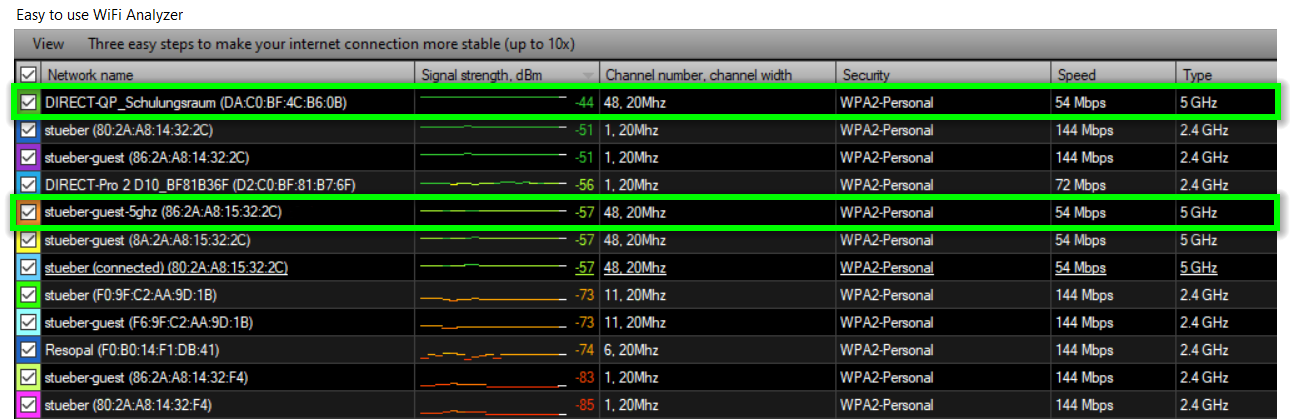
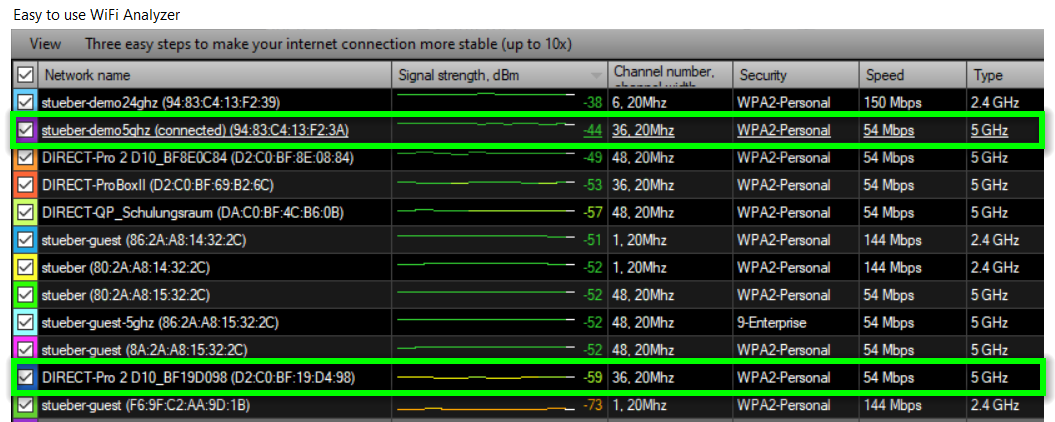
xx

diff --git a/docs/pro-stick-d10/wifi.environment.md b/docs/pro-stick-d10/wifi.environment.md
@@ -68,7 +68,7 @@ Mithilfe einer kostenlosen App/Software senden Sie uns ein Screenshot Ihrer WLAN
 
 ![](/assets/img/wifi.analyzer.sortbysignal.strength.png)
 
-* Im unten stehenden Beispiel ist das EZCast Pro Gerät `DIRECT-Pro 2 D10_BF8E0C84` mit der WLAN-Infrastruktur `stueber-guest-5ghz` mit guter Signalstärke über das Kanal 48 (5Ghz-Frequenz) verbunden:
+* Im unten stehenden Beispiel ist das EZCast Pro Gerät `DIRECT-Pro 2 D10_BF19D098` mit der WLAN-Infrastruktur `stueber-demo-5ghz` mit guter Signalstärke über das Kanal 48 (5Ghz-Frequenz) verbunden:
 
 ![](/assets/img/wifi.analyzer.windows.png)
 
@@ -78,7 +78,7 @@ Suchen Sie die App **WiFiman** im [Play Store](https://play.google.com/store/app
 
 ![](/assets/img/wifiman.android.install.png)
 
-* Im unten stehenden Beispiel ist das EZCast Pro Gerät `DIRECT-Pro 2 D10_BF8E0C84` mit der WLAN-Infrastruktur `stueber-guest-5ghz` mit guter Signalstärke über das Kanal 48 (5Ghz-Frequenz) verbunden:
+* Im unten stehenden Beispiel ist das EZCast Pro Gerät `DIRECT-Pro 2 D10_BF19D098` mit der WLAN-Infrastruktur `stueber-demo-5ghz` mit guter Signalstärke über das Kanal 48 (5Ghz-Frequenz) verbunden:
 
 ![](/assets/img/wifiman.android.networks.png)
 
